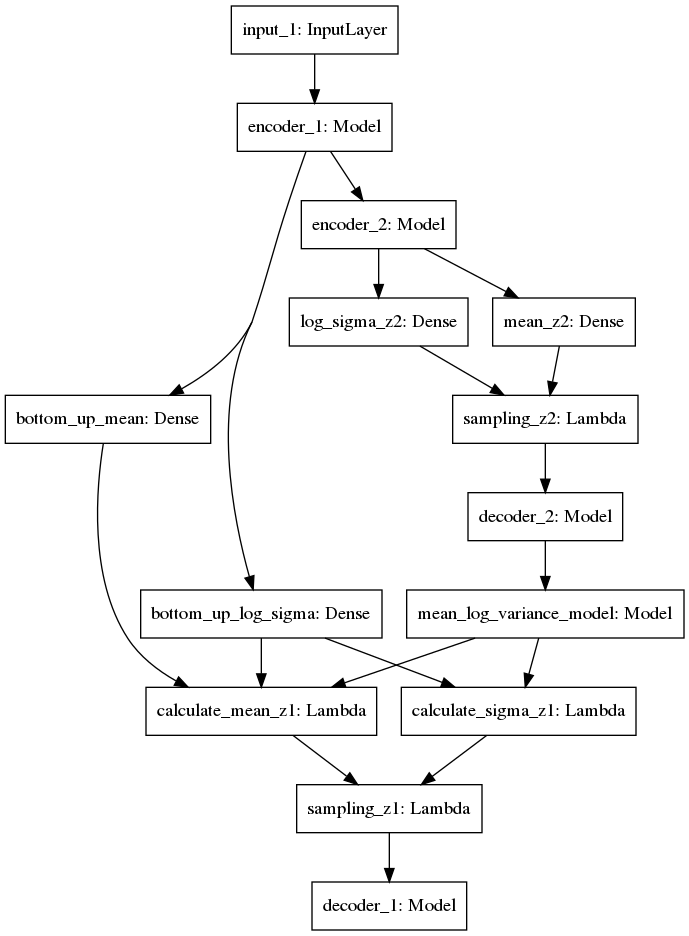
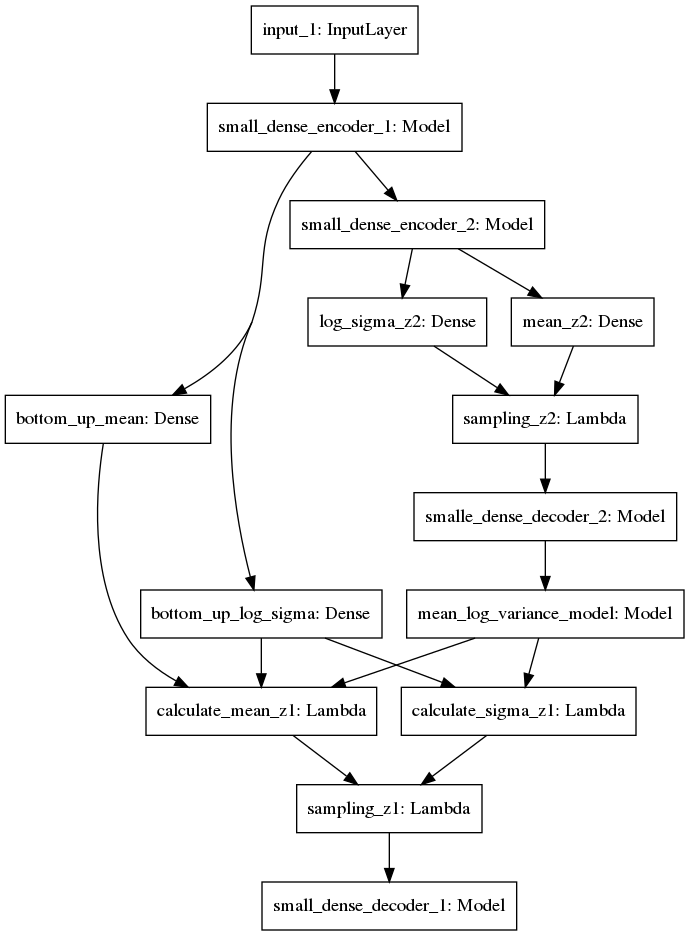
version incr, lvae picture update

diff --git a/test.py b/test.py
@@ -5,10 +5,10 @@ from keras.utils import plot_model
 
 data_gen = DataGenerator(image_shape=(28, 28, 1), batch_size=70,
                          file_path=os.getcwd() + '/csnl/data/scramtex_700_28px.pkl', whiten=True)
-conv_vae = SmallDenseVAE(input_shape=(70, 28*28),
-                         latent_dim=256)
+conv_vae = SmallDenseLadderVAE(input_shape=(70, 28*28),
+                         latent_dim1=256, latent_dim2=128)
 
 model_trainer = ModelTrainer(
     conv_vae, data_gen, loss_fn="normal", beta=1, lr=5e-6)
-plot_model(model_trainer.model, to_file='vae.png')
+plot_model(model_trainer.model, to_file='lvae_keras.png')
 model_trainer.fit(5, 50, contrast=True)

diff --git a/setup.py b/setup.py
@@ -3,7 +3,7 @@ from setuptools import find_packages
 
 setup(
     name='csnl-vae-olaralex',
-    version='1.87dev',
+    version='1.88dev',
     author="Alex Olar",
     author_email="olaralex@caesar.elte.hu",
     packages=find_packages(),
